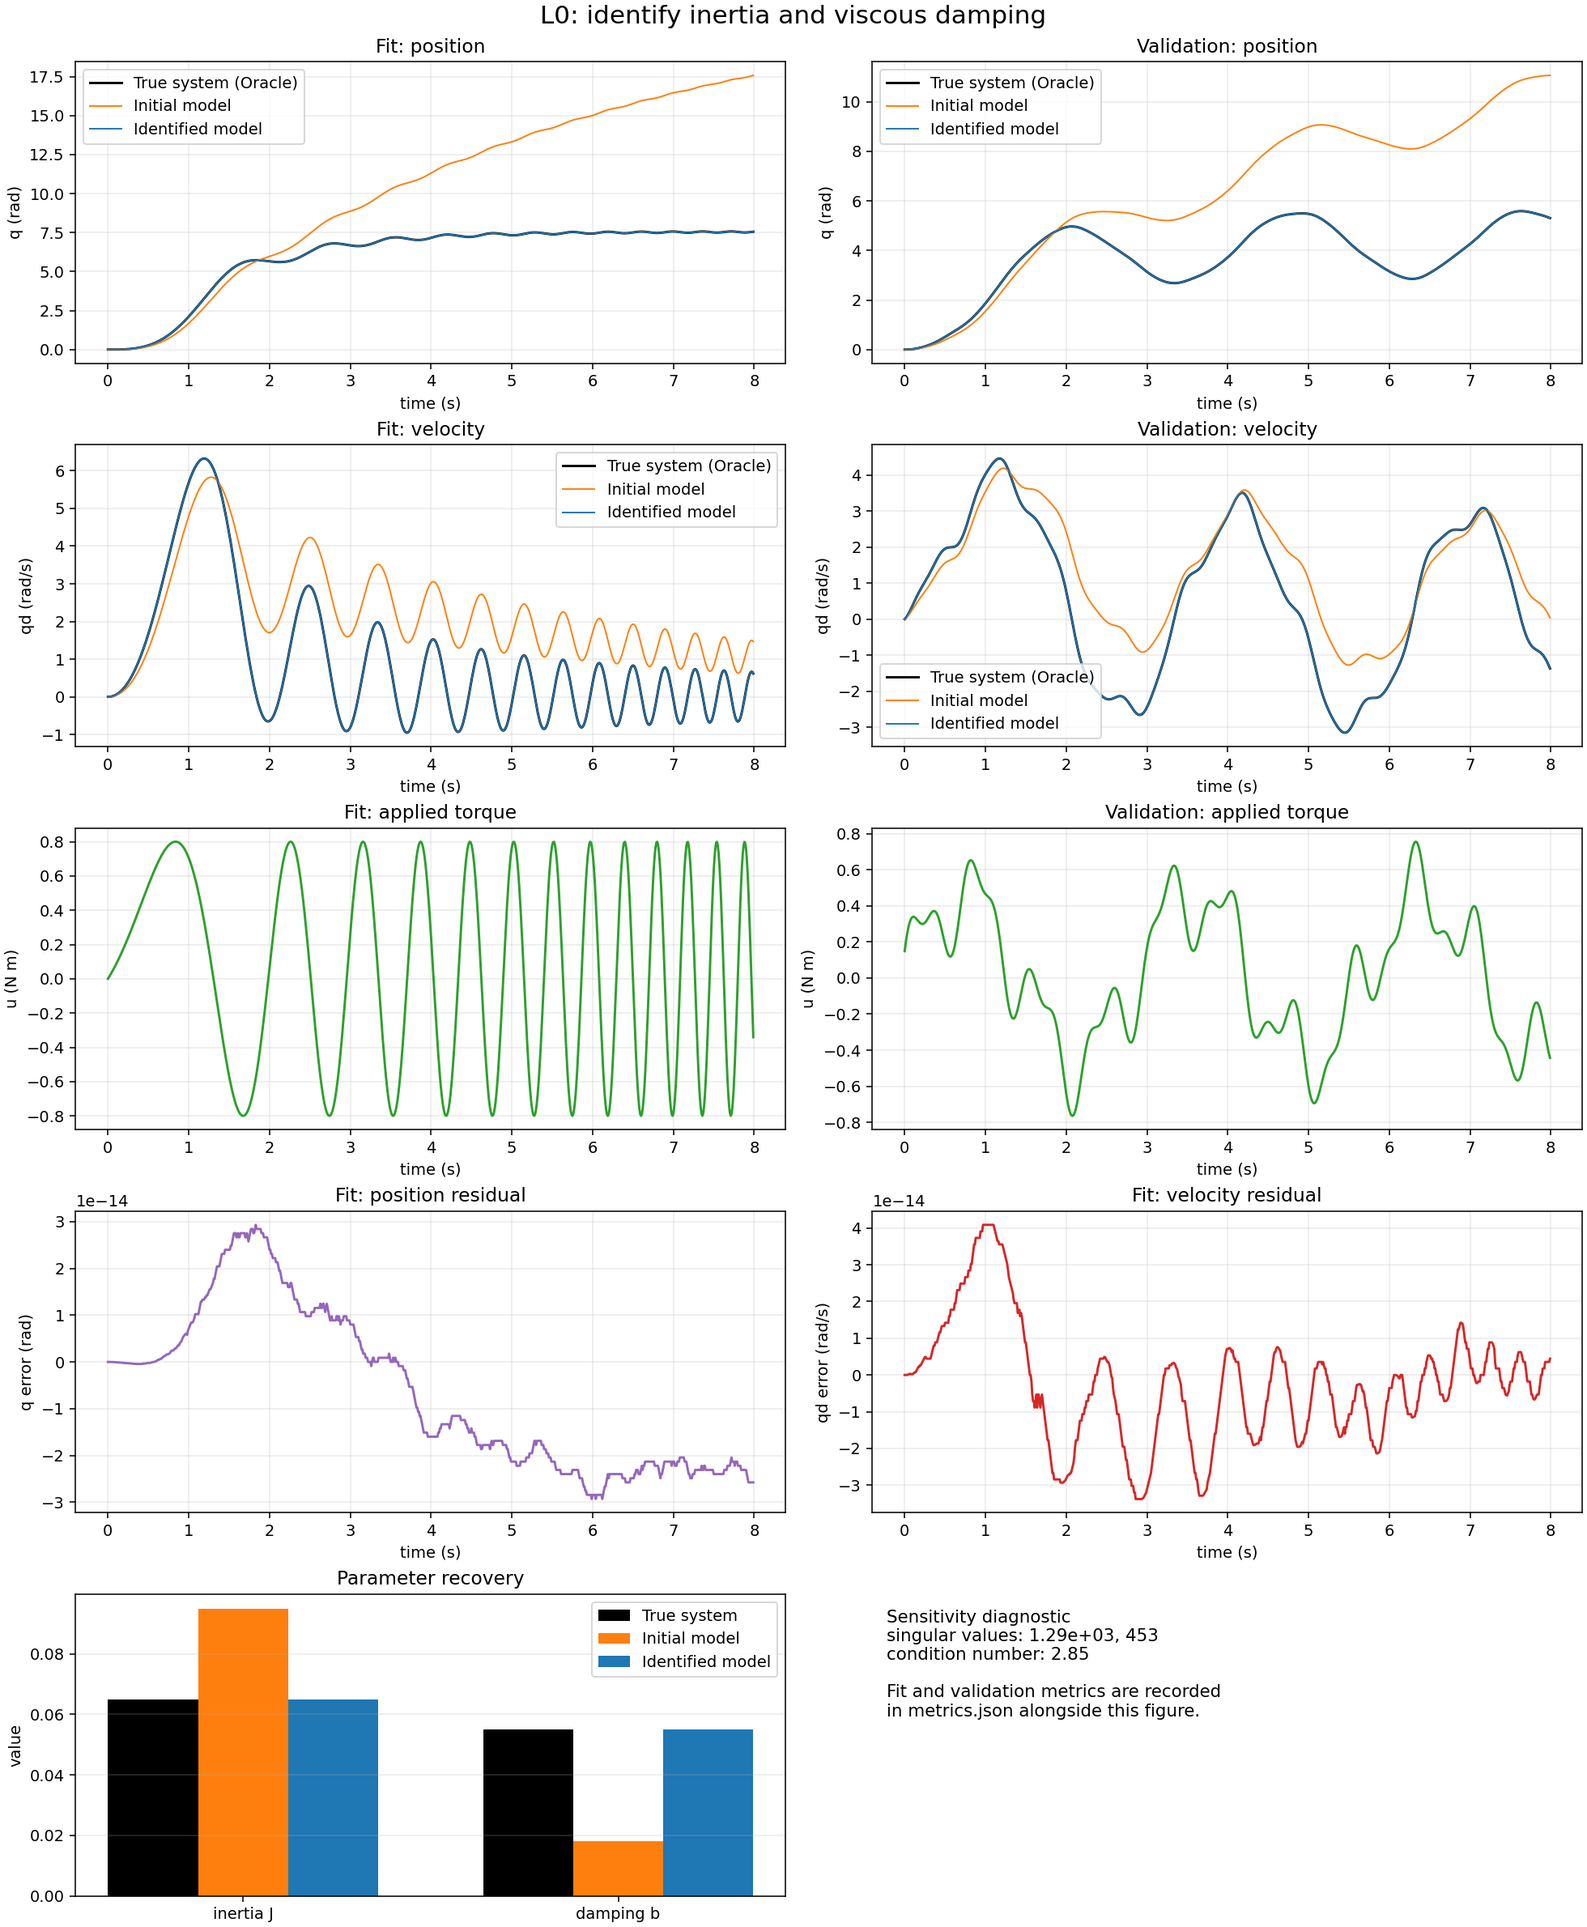
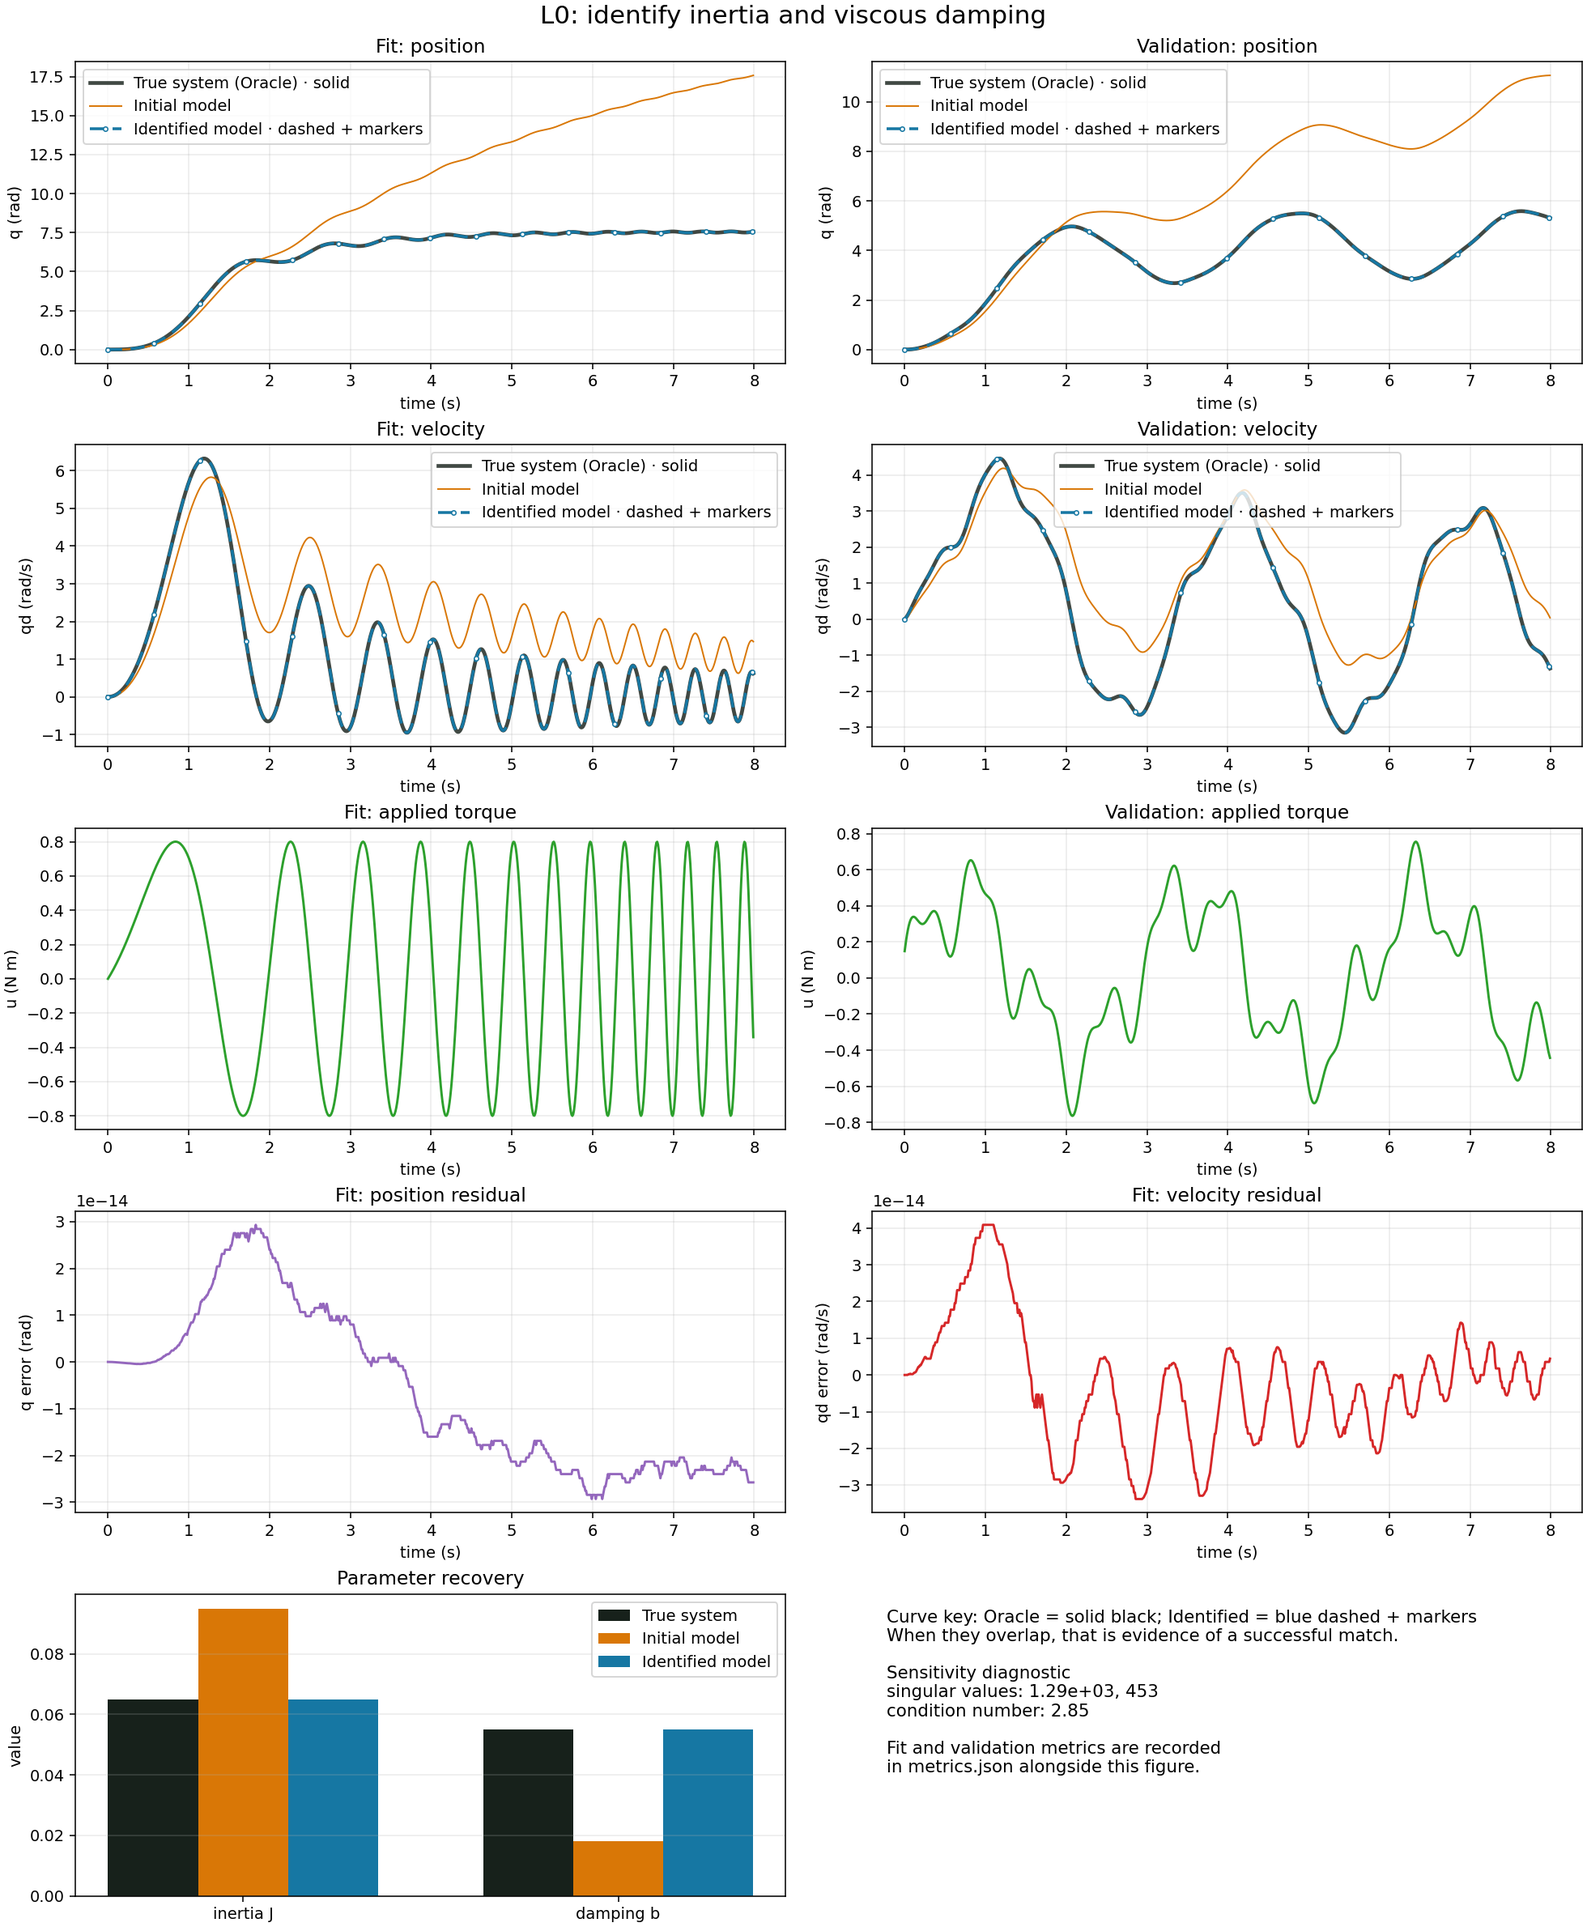
feat(l0): explain excitations and distinguish curves

diff --git a/apps/l0_inertia_damping.py b/apps/l0_inertia_damping.py
@@ -275,6 +275,27 @@ def _(mo):
             color: var(--lesson-ink);
             font: .84rem/1.45 var(--lesson-font-body);
           }
+          .excitation-notes {
+            display: grid;
+            grid-template-columns: repeat(2, minmax(0, 1fr));
+            gap: var(--lesson-space-sm);
+            margin-top: var(--lesson-space-md);
+          }
+          .excitation-note {
+            border-top: 2px solid var(--lesson-blue);
+            padding-top: var(--lesson-space-xs);
+          }
+          .excitation-note.validation { border-top-color: var(--lesson-warm); }
+          .excitation-note h3 {
+            color: var(--lesson-ink);
+            font: 650 1rem/1.25 var(--lesson-font-display);
+            margin: 0 0 var(--lesson-space-3xs);
+          }
+          .excitation-note p {
+            color: var(--lesson-muted);
+            font: .84rem/1.45 var(--lesson-font-body);
+            margin: 0;
+          }
           .outcomes {
             display: grid;
             grid-template-columns: repeat(3, minmax(0, 1fr));
@@ -355,6 +376,7 @@ def _(mo):
             .lesson-hero h1 { font-size: 2.15rem; }
             .lesson-chapter h2 { font-size: 1.65rem; }
             .intro-grid { grid-template-columns: minmax(0, 1fr); gap: var(--lesson-space-sm); }
+            .excitation-notes { grid-template-columns: minmax(0, 1fr); }
             .outcomes,
             .roles { grid-template-columns: minmax(0, 1fr); }
             .metric-strip { grid-template-columns: repeat(2, minmax(0, 1fr)); }
@@ -574,6 +596,20 @@ def _(mo):
           will do to the orange trajectory. The sliders update the Initial model
           on both datasets without fitting. Run identification when you want the
           estimator to start from those values and update the blue result.</p>
+          <div class="excitation-notes">
+            <div class="excitation-note">
+              <h3>Fit / chirp</h3>
+              <p>A chirp sweeps from low to high frequency. It gives the
+              estimator changing acceleration and velocity so it can learn how
+              <code>J</code> and <code>b</code> shape one motion.</p>
+            </div>
+            <div class="excitation-note validation">
+              <h3>Validation / held-out multisine</h3>
+              <p>A multisine adds several fixed frequencies at once. This input
+              is generated separately and hidden from fitting, so it tests
+              whether the Identified model predicts a new motion.</p>
+            </div>
+          </div>
         </section>
         """
     )
@@ -631,6 +667,7 @@ def _(preview_config, run_identification):
 
 @app.cell
 def _(
+    base_config,
     damping_control,
     fit_completed_at,
     fit_elapsed_s,
@@ -665,15 +702,25 @@ def _(
                 "Move one control at a time. Orange updates immediately on both "
                 "datasets; fitting starts only when you run identification."
             ),
+            mo.callout(
+                mo.md(
+                    f"**True system (Oracle), evaluation only:** `J = "
+                    f"{base_config.truth.inertia:.5f} kg m^2`, `b = "
+                    f"{base_config.truth.damping:.5f} N m s/rad`. Here `J` and `b` "
+                    "are the Oracle parameters; `q` is the observed position "
+                    "trajectory, not an additional parameter."
+                ),
+                kind="info",
+            ),
             inertia_control,
             damping_control,
             run_identification,
             compute_status,
             mo.callout(
                 mo.md(
-                    "**Fit** is visible to the estimator. **Validation** uses a "
-                    "different input and is scored only after fitting. Both stay "
-                    "visible below."
+                    "**Fit / chirp** is visible to the estimator. **Validation / "
+                    "held-out multisine** uses a different input and is scored "
+                    "only after fitting. Both stay visible below."
                 ),
                 kind="info",
             ),
@@ -734,22 +781,32 @@ def _(
                 observations.t,
                 observed,
                 color=lesson_colors["oracle"],
-                label="True system (Oracle)",
-                linewidth=1.8,
+                label="True system (Oracle) · solid",
+                linewidth=2.4,
+                alpha=0.82,
+                zorder=2,
             )
             lesson_axes[row, column].plot(
                 observations.t,
                 initial,
                 color=lesson_colors["nominal"],
                 label="Initial model",
-                linewidth=1.3,
+                linewidth=1.5,
+                zorder=1,
             )
             lesson_axes[row, column].plot(
                 observations.t,
                 identified,
                 color=lesson_colors["identified"],
-                label="Identified model",
-                linewidth=1.3,
+                label="Identified model · dashed + markers",
+                linewidth=1.8,
+                linestyle=(0, (5, 3)),
+                marker="o",
+                markersize=2.8,
+                markerfacecolor="white",
+                markeredgewidth=0.8,
+                markevery=max(len(observations.t) // 14, 1),
+                zorder=3,
             )
             lesson_axes[row, column].set(ylabel=ylabel)
             lesson_axes[row, column].grid(alpha=0.2)
@@ -794,9 +851,10 @@ def _(
     if identification_is_current:
         evidence_note = mo.callout(
             mo.md(
-                "The blue Identified model overlaps the black True system on "
-                "both datasets. The validation column is stronger evidence "
-                "because its multisine was not visible during fitting."
+                "The blue dashed Identified model may overlap the black solid True "
+                "system. That overlap is the result: markers and line styles keep "
+                "both curves visible. Validation is stronger evidence because its "
+                "multisine was not visible during fitting."
             ),
             kind="success",
         )
@@ -817,8 +875,10 @@ def _(
                   <span class="chapter-label">04 / READ THE EVIDENCE</span>
                   <h2>Fit explains the estimate. Validation tests its use.</h2>
                   <p class="chapter-lede">Fit and Validation remain side by
-                  side. Read each column from applied input to position and
-                  velocity, then compare the Initial and Identified models.</p>
+                  side. In each column, read applied torque on top, position in
+                  the middle, and velocity below. Orange shows the Initial-model
+                  error; black and blue show whether identification recovered
+                  the observed motion.</p>
                 </section>
                 """
             ),

diff --git a/synthetic/l0_inertia_damping.py b/synthetic/l0_inertia_damping.py
@@ -549,7 +549,7 @@ def plot_run(run: L0Run, output_path: str | Path) -> Path:
         qd0=run.config.qd0,
     )
 
-    colors = {"oracle": "black", "nominal": "tab:orange", "identified": "tab:blue"}
+    colors = {"oracle": "#17211b", "nominal": "#d97706", "identified": "#1677a3"}
     figure, axes = plt.subplots(5, 2, figsize=(14, 17), constrained_layout=True)
     plots = [
         (axes[0, 0], fit.t, fit.q, nominal_fit_q, identified_fit_q, "q (rad)", "Fit: position"),
@@ -558,9 +558,30 @@ def plot_run(run: L0Run, output_path: str | Path) -> Path:
         (axes[1, 1], validation.t, validation.qd, nominal_val_qd, identified_val_qd, "qd (rad/s)", "Validation: velocity"),
     ]
     for axis, time, oracle, nominal, identified, ylabel, title in plots:
-        axis.plot(time, oracle, color=colors["oracle"], label="True system (Oracle)", linewidth=1.5)
+        axis.plot(
+            time,
+            oracle,
+            color=colors["oracle"],
+            label="True system (Oracle) · solid",
+            linewidth=2.4,
+            alpha=0.82,
+            zorder=2,
+        )
         axis.plot(time, nominal, color=colors["nominal"], label="Initial model", linewidth=1.0)
-        axis.plot(time, identified, color=colors["identified"], label="Identified model", linewidth=1.0)
+        axis.plot(
+            time,
+            identified,
+            color=colors["identified"],
+            label="Identified model · dashed + markers",
+            linewidth=1.8,
+            linestyle=(0, (5, 3)),
+            marker="o",
+            markersize=2.8,
+            markerfacecolor="white",
+            markeredgewidth=0.8,
+            markevery=max(len(time) // 14, 1),
+            zorder=3,
+        )
         axis.set(title=title, xlabel="time (s)", ylabel=ylabel)
         axis.grid(alpha=0.25)
         axis.legend()
@@ -595,6 +616,8 @@ def plot_run(run: L0Run, output_path: str | Path) -> Path:
     axes[4, 1].text(
         0.02,
         0.95,
+        "Curve key: Oracle = solid black; Identified = blue dashed + markers\n"
+        "When they overlap, that is evidence of a successful match.\n\n"
         "Sensitivity diagnostic\n"
         f"singular values: {run.sensitivity.singular_values[0]:.3g}, {run.sensitivity.singular_values[1]:.3g}\n"
         f"condition number: {run.sensitivity.condition_number:.3g}\n\n"
@@ -643,12 +666,22 @@ different multisine input and is kept untouched until after fitting. Improvement
 on validation is the useful evidence that the fitted model learned dynamics
 rather than only matching one motion.
 
+A **chirp** is one sinusoid whose frequency sweeps from low to high. A
+**multisine** adds several fixed-frequency sinusoids. **Held-out** means that
+the multisine observations are not used to estimate `J` or `b`; they are used
+only after fitting to test prediction on a different motion.
+
 Configuration: `{run.config.version}`<br>
 Plant boundary: known applied torque `u` in N m -> observed `q`, `qd`<br>
 Fit excitation: chirp<br>
 Validation excitation: held-out multisine
 
 ![True-system, Initial-model, and Identified-model trajectories](report.png)
+
+**Curve key:** True system (Oracle) is the solid dark line. Identified model is
+the blue dashed line with open markers. When they overlap, the markers still
+show that both curves are present; the overlap is evidence of a successful
+match. Initial model is orange.
 
 | quantity | True system | Initial model | Identified model |
 |---|---:|---:|---:|

diff --git a/tests/test_l0_inertia_damping.py b/tests/test_l0_inertia_damping.py
@@ -124,8 +124,10 @@ def test_report_contains_one_run_metadata_and_visual(tmp_path):
     assert "Initial model" in report
     assert "Identified model" in report
     assert "held-out multisine" in report
+    assert "frequency sweeps from low to high" in report
     assert "How to read this report" in report
     assert "`nominal` for compatibility" in report
+    assert "Curve key" in report
 
 
 def test_l0_lesson_set_and_pipeline_contract_exist():
@@ -173,6 +175,10 @@ def test_marimo_preview_reuses_shared_l0_runner():
     assert "WHAT SYSID GIVES US" in preview
     assert "THE REPEATED LOOP" in preview
     assert "fit_student" not in preview
+    assert "dashed + markers" in preview
+    assert "True system (Oracle), evaluation only" in preview
+    assert "Fit / chirp" in preview
+    assert "held-out multisine" in preview
 
 
 def test_marimo_slider_changes_do_not_trigger_refit():

diff --git a/docs/05_visualization_and_reporting.md b/docs/05_visualization_and_reporting.md
@@ -104,6 +104,24 @@ rather than mixing quantities with incompatible physical units in one raw-error 
 
 A 2-D loss landscape is particularly useful when two parameters compensate for one another. Long flat valleys should be treated as visual evidence of practical non-identifiability, not as an optimizer problem alone.
 
+### Different Oracle and Student parameter spaces
+
+Later teachers may contain parameters that the Student intentionally omits. Do
+not force those vectors into one bar chart or imply that an absent Student
+parameter was recovered as zero. Reports should use a parameter-role matrix:
+
+| Oracle parameter | Student parameter | Evidence |
+|---|---|---|
+| shared and semantically comparable | present | recovery error and estimate |
+| present only in Oracle | absent | residual or behavior attributed to omitted structure |
+| absent in Oracle | present only in Student | effective or nuisance parameter, with a clear label |
+
+The visual companion is a split parameter view: a shared-parameter comparison,
+an Oracle-only list, and a Student-only list. For whole robots, use the same
+schema per joint or subsystem and add a residual heatmap showing where omitted
+Oracle effects appear. This keeps parameter recovery, effective compensation,
+and predictive behavior as separate claims.
+
 ### V4 — robot behavior visualization
 
 Question:

diff --git a/reports/l0_inertia_damping/report.md b/reports/l0_inertia_damping/report.md
@@ -20,12 +20,22 @@ different multisine input and is kept untouched until after fitting. Improvement
 on validation is the useful evidence that the fitted model learned dynamics
 rather than only matching one motion.
 
+A **chirp** is one sinusoid whose frequency sweeps from low to high. A
+**multisine** adds several fixed-frequency sinusoids. **Held-out** means that
+the multisine observations are not used to estimate `J` or `b`; they are used
+only after fitting to test prediction on a different motion.
+
 Configuration: `l0-inertia-damping-v1`<br>
 Plant boundary: known applied torque `u` in N m -> observed `q`, `qd`<br>
 Fit excitation: chirp<br>
 Validation excitation: held-out multisine
 
 ![True-system, Initial-model, and Identified-model trajectories](report.png)
+
+**Curve key:** True system (Oracle) is the solid dark line. Identified model is
+the blue dashed line with open markers. When they overlap, the markers still
+show that both curves are present; the overlap is evidence of a successful
+match. Initial model is orange.
 
 | quantity | True system | Initial model | Identified model |
 |---|---:|---:|---:|

diff --git a/docs/lessons/l0/02-fit-to-validation.md b/docs/lessons/l0/02-fit-to-validation.md
@@ -11,6 +11,19 @@ L0 therefore has two explicit splits:
 | Fit | chirp | estimate `J` and `b` |
 | Validation | held-out multisine | test prediction on a different motion |
 
+### What the inputs mean
+
+The **chirp** is one sinusoid whose frequency changes continuously from low to
+high over the fitting window. It exposes both slow motion and fast changes, so
+the estimator sees the acceleration-sensitive and velocity-sensitive parts of
+the equation.
+
+The **held-out multisine** is a separate signal made by adding several fixed
+frequency sinusoids. It is not a second fitting method: it is a new motion kept
+away from the estimator until scoring. Good validation performance means the
+fitted model predicts this different combination of frequencies, rather than
+only replaying the chirp it already saw.
+
 The report gives mean absolute error (MAE) for both position `q` and velocity
 `qd`. Compare the Initial-model rows with the Identified-model rows. The important
 pattern is not that every number is zero; it is that the identified model

diff --git a/docs/lesson_pipeline.md b/docs/lesson_pipeline.md
@@ -23,6 +23,11 @@ Every lesson declares these items before implementation:
 | Evidence | Which curves, metrics, and diagnostics answer the question? |
 | Limits | Which real effects are intentionally absent? |
 
+When Oracle and Student parameter spaces differ, the lesson contract must also
+declare which parameters are shared, Oracle-only, or Student-only. Shared
+parameters can support recovery claims; unmatched parameters require behavior
+and residual evidence instead.
+
 The contract prevents a lesson from silently changing its model, data boundary,
 or validation meaning while its narrative remains the same.
 
